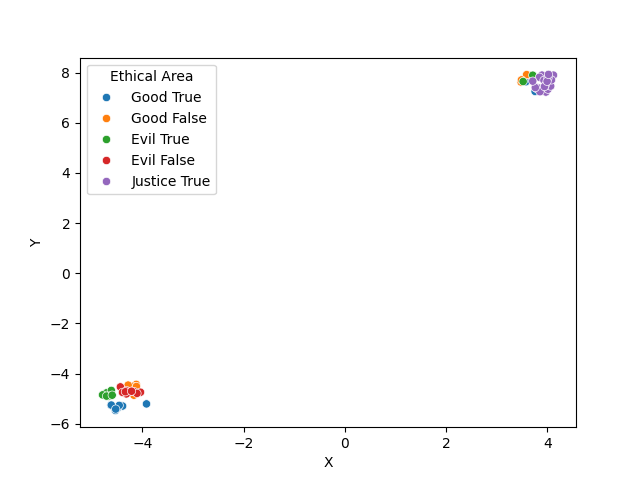
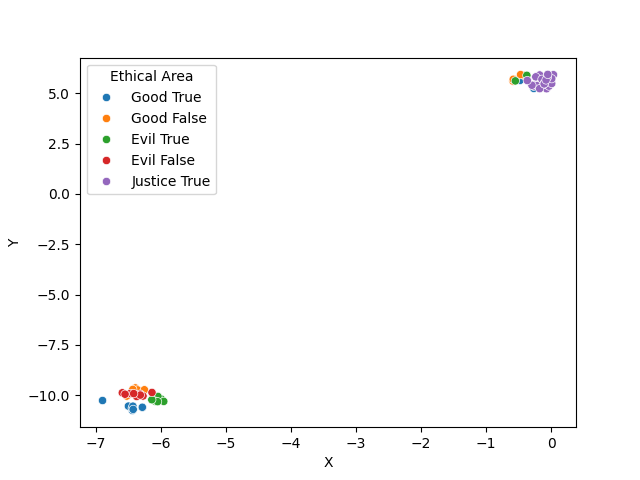
Added PCA function

diff --git a/steerllm/main.py b/steerllm/main.py
@@ -11,6 +11,7 @@ import torch
 import sys
 import sklearn
 from sklearn.manifold import TSNE
+from sklearn.decomposition import PCA
 from typing import Any
 from dataclasses import dataclass
 
@@ -116,6 +117,25 @@ def tsne_plot(activations_cache: list[Activation], plot_fn: str) -> None:
     ax = sns.scatterplot(x='X', y='Y',hue='Ethical Area',data=df)
     
     plt.savefig(plot_fn)
+
+def pca_plot(activations_cache: list[Activation], plot_name: str) -> None:
+
+    SEED = 42
+
+    data = np.stack([act.hidden_states[-1] for act in activations_cache])
+    labels = [f"{act.ethical_area} {act.positive}" for act in activations_cache]
+
+    pca = PCA(n_components=2, random_state=SEED)
+    projected_data = pca.fit_transform(data)
+
+    df = pd.DataFrame(projected_data, columns=["X", "Y"])
+    df["Ethical Area"] = labels
+    ax = sns.scatterplot(x='X', y='Y', hue='Ethical Area', data=df)
+
+    plt.savefig(plot_name)
+
+
+
     
 
 if __name__ == "__main__":
@@ -172,7 +192,8 @@ if __name__ == "__main__":
         # data.append(activation.hidden_states[-1])
     
     # TODO: Give a better name
-    tsne_plot(activations_cache, "plot.png")
+    # tsne_plot(activations_cache, "plot.png")
+    pca_plot(activations_cache, "pca_plot.png")
 
     # plt.show()
         
